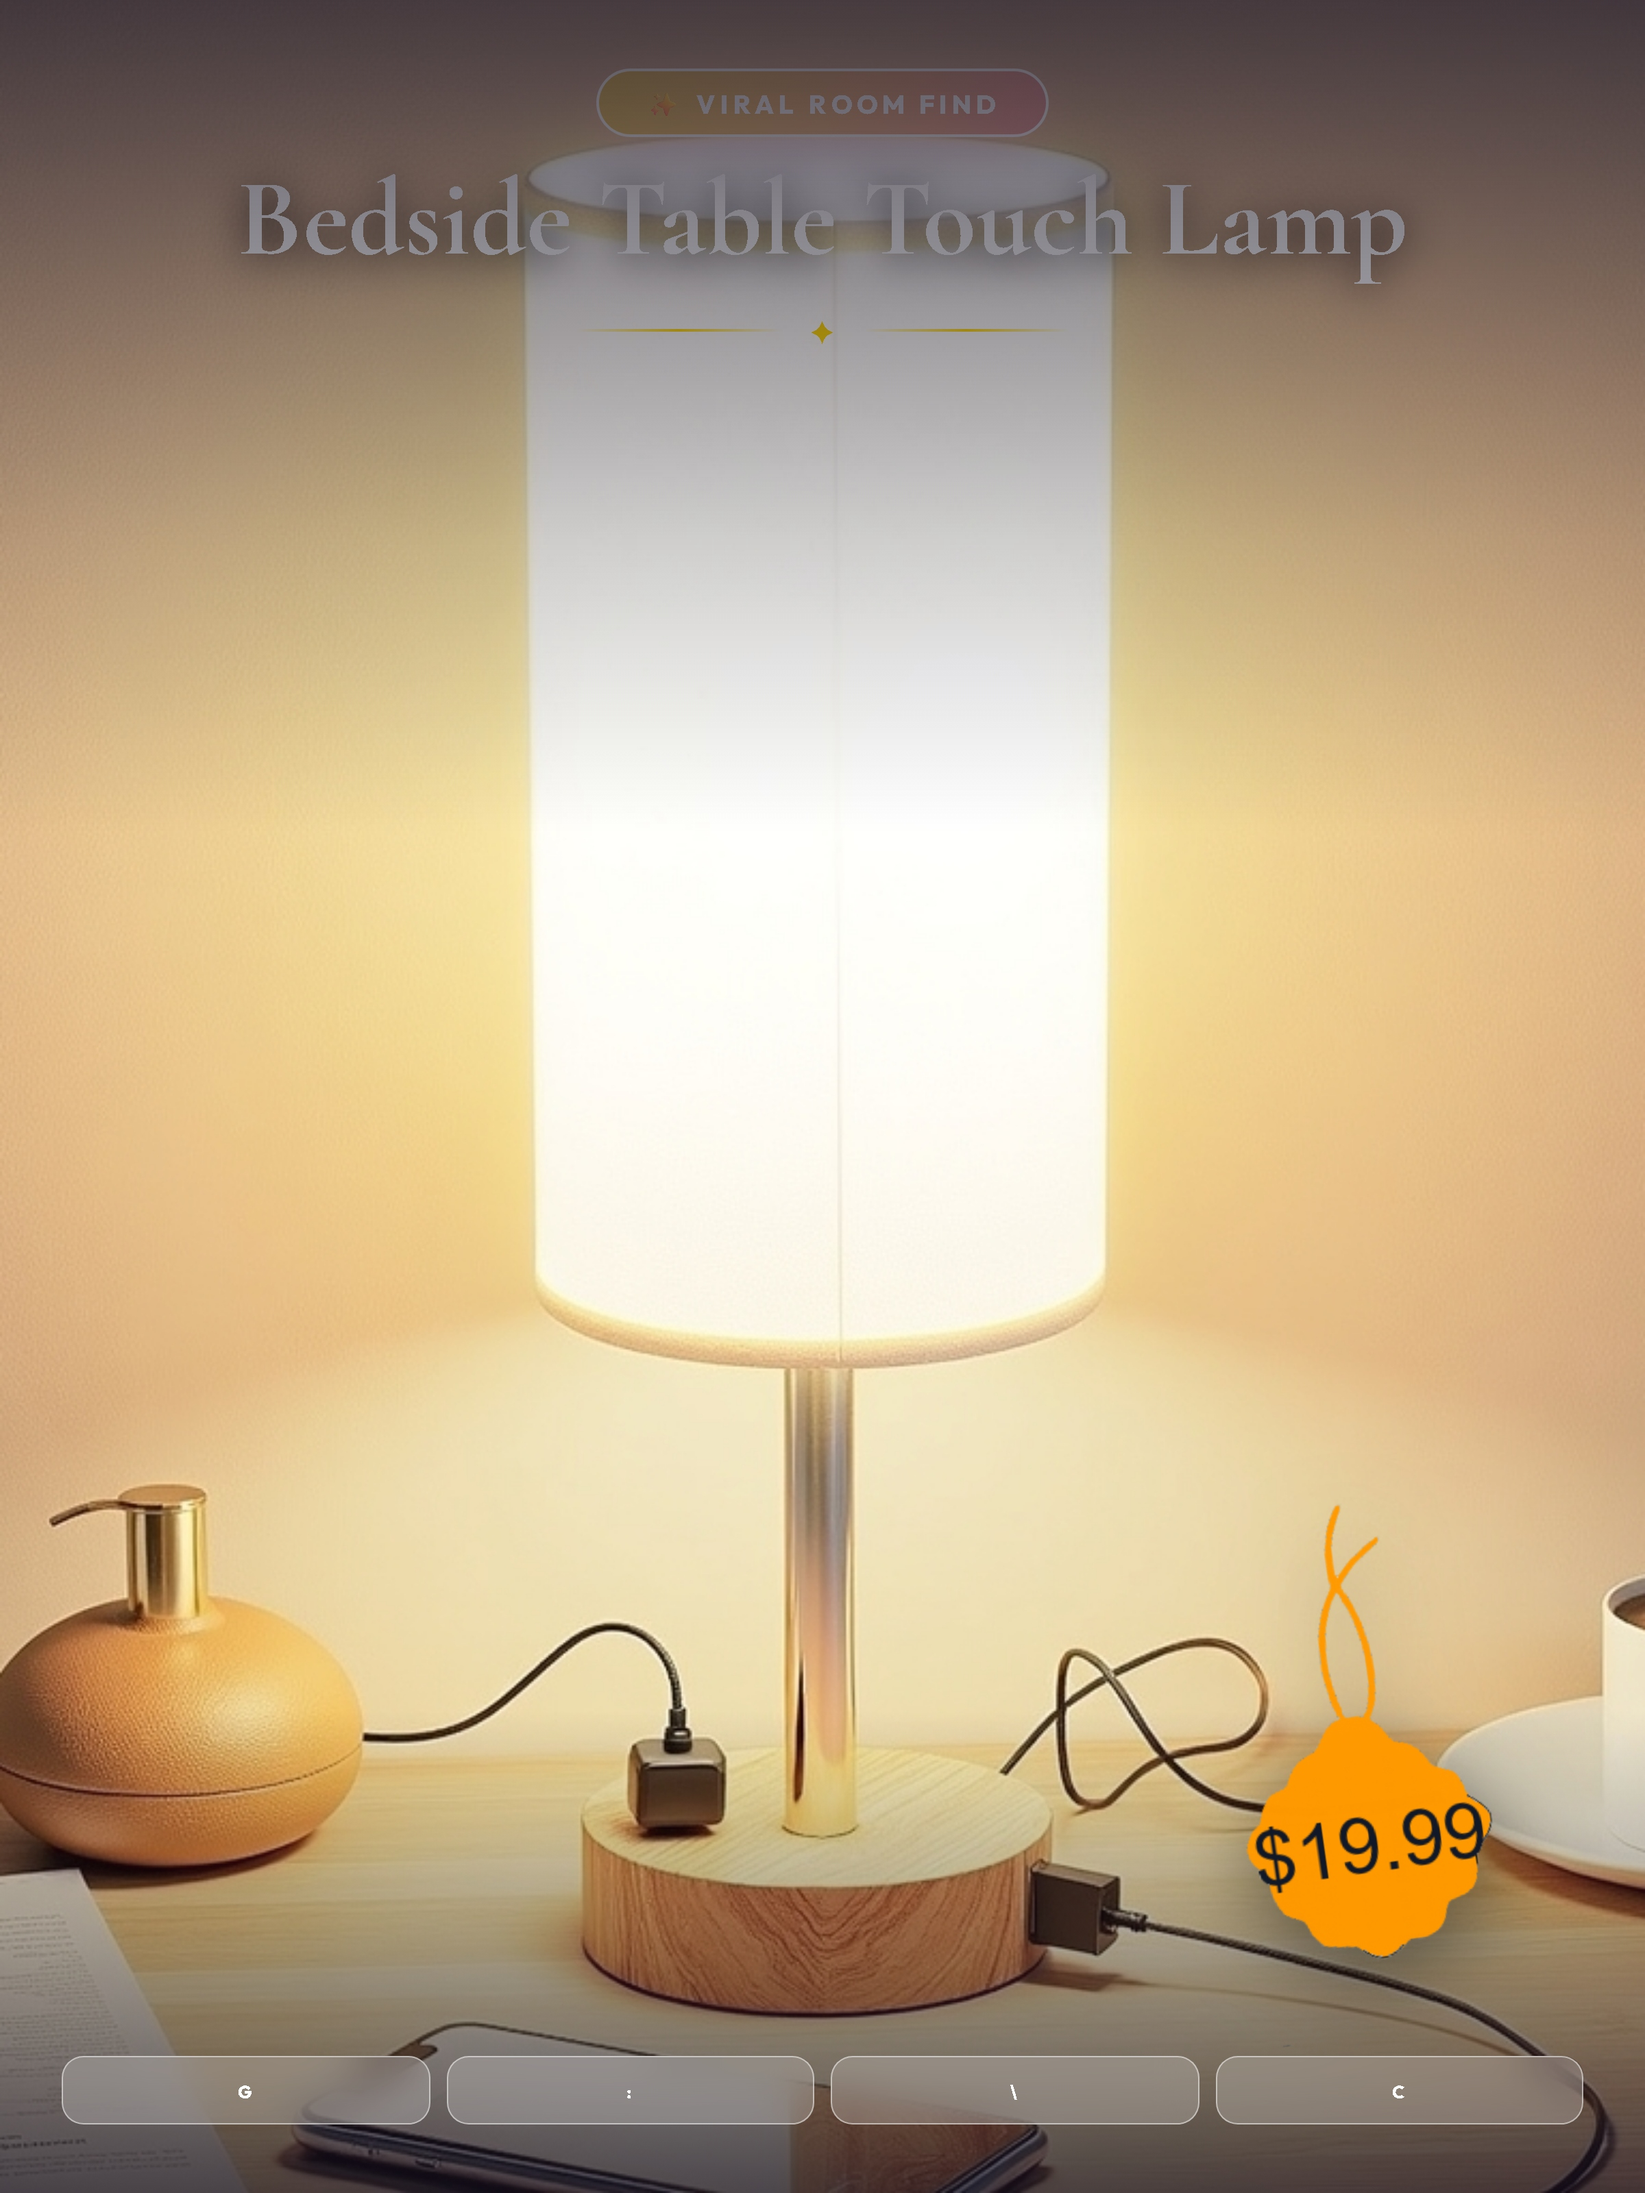
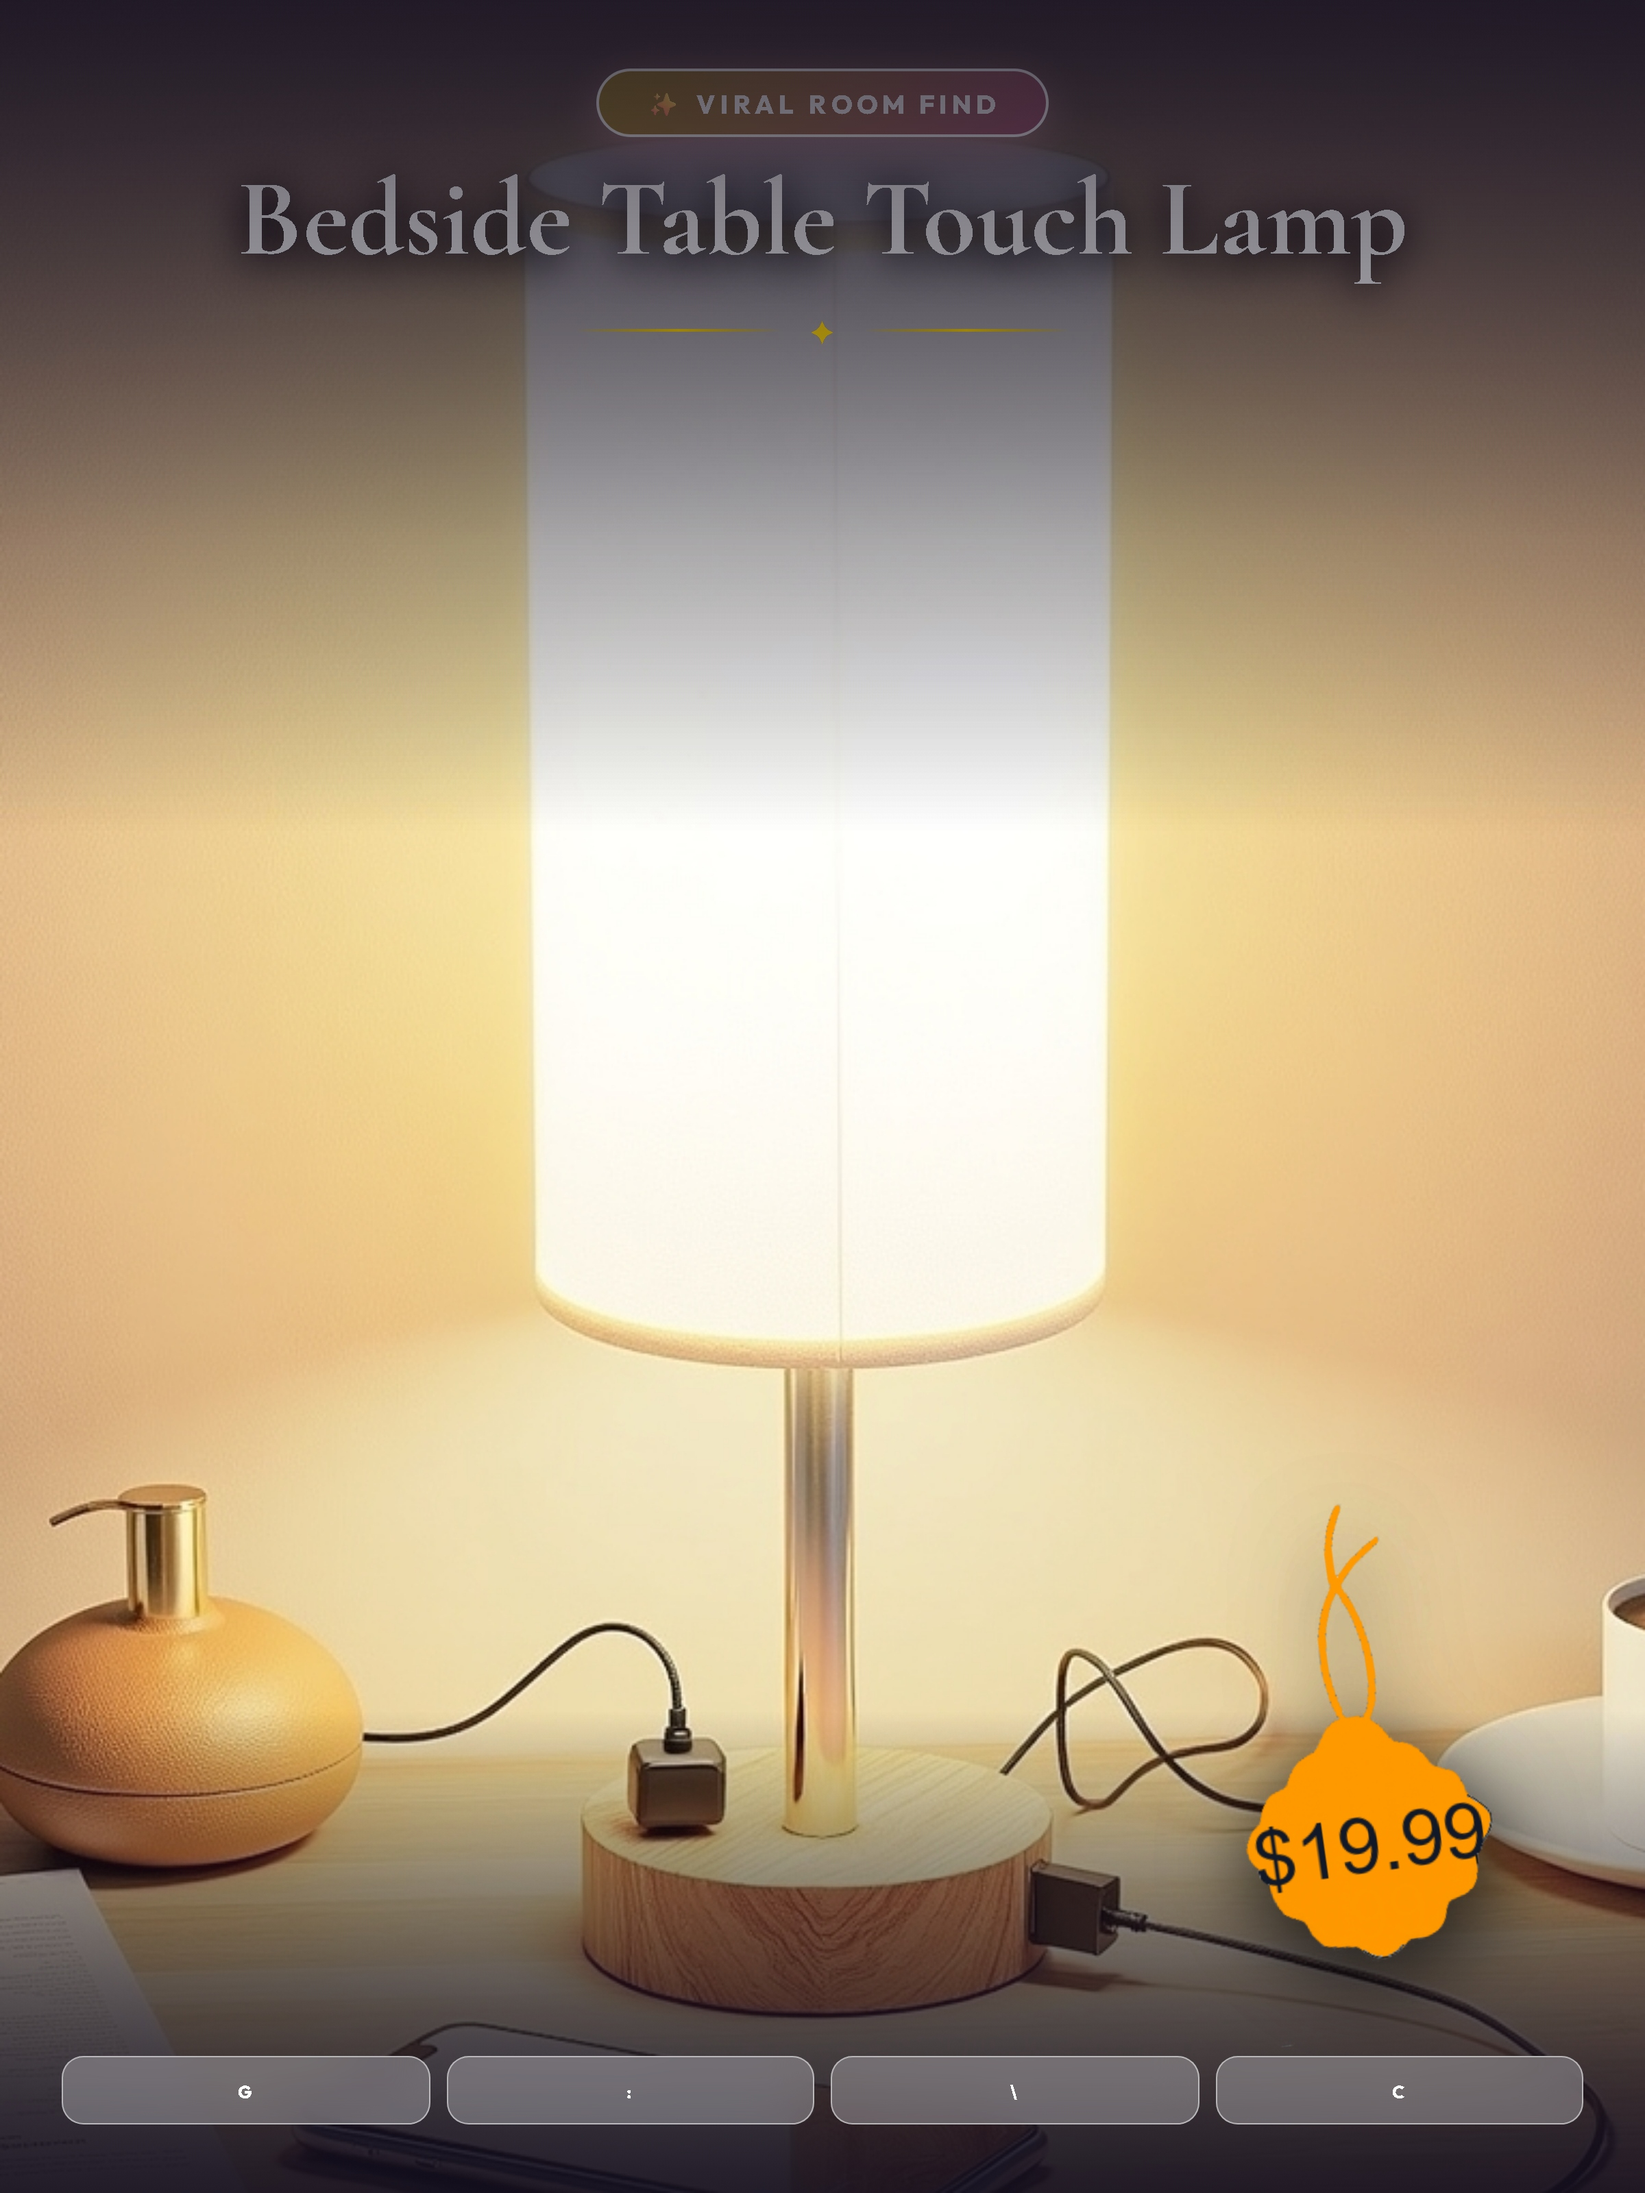
apply premium Playwright overlay template b9e65w6bf9rn80cznt1tap5v28_overlay.jpg for B0BZXNSW5K

diff --git a/bridge_B0BZXNSW5K.html b/bridge_B0BZXNSW5K.html
@@ -317,12 +317,12 @@
 
         <!-- Hero Image -->
         <div class="img-container">
-            <img id="mainImage" class="hero-img" src="./b9e65w6bf9rn80cznt1tap5v28.jpg" alt="Bedside Table Lamp for Bedroom - Dimmable Touch, USB A+C, AC Outlet | 3-Way Dimmable, LED Bulb Included, Fabric Lampshade, Wood-Grain Metal Base, 14" Small Nightstand Lamp for Desk, Living Room">
+            <img id="mainImage" class="hero-img" src="./b9e65w6bf9rn80cznt1tap5v28_overlay.jpg" alt="Bedside Table Lamp for Bedroom - Dimmable Touch, USB A+C, AC Outlet | 3-Way Dimmable, LED Bulb Included, Fabric Lampshade, Wood-Grain Metal Base, 14" Small Nightstand Lamp for Desk, Living Room">
         </div>
 
         <!-- Image View Switcher -->
         <div class="img-tabs">
-            <button class="img-tab-btn active" onclick="switchImage('./b9e65w6bf9rn80cznt1tap5v28.jpg', this)">✨ Commercial View</button>
+            <button class="img-tab-btn active" onclick="switchImage('./b9e65w6bf9rn80cznt1tap5v28_overlay.jpg', this)">✨ Commercial View</button>
             
         </div>
 

diff --git a/index.html b/index.html
@@ -637,7 +637,7 @@
                 <div class="card-img-container">
                     <div class="card-price-tag">$19.99</div>
                     <div class="card-rating">★ 4.7</div>
-                    <img src="./b9e65w6bf9rn80cznt1tap5v28.jpg" alt="Fenmzee Bedside Table Touch Lamp">
+                    <img src="./b9e65w6bf9rn80cznt1tap5v28_overlay.jpg" alt="Fenmzee Bedside Table Touch Lamp">
                 </div>
                 <div class="card-content">
                     <h2>Fenmzee Bedside Table Touch Lamp</h2>

diff --git a/render_perfect_template.py b/render_perfect_template.py
@@ -1,0 +1,53 @@
+import sys
+import time
+import subprocess
+from pathlib import Path
+
+# Ensure UTF-8 stdout
+if hasattr(sys.stdout, "reconfigure"):
+    sys.stdout.reconfigure(encoding="utf-8")
+
+from modules.html_overlay_engine import render_html_overlay
+
+asin = "B0BZXNSW5K"
+raw_img_path = Path("G:/CLI/pinterest-auto-affiliate/b9e65w6bf9rn80cznt1tap5v28.jpg")
+overlay_filename = "b9e65w6bf9rn80cznt1tap5v28_overlay.jpg"
+overlay_img_path = Path(f"G:/CLI/pinterest-auto-affiliate/{overlay_filename}")
+
+title_hook = "Bedside Table Touch Lamp"
+price_str = "$19.99"
+badge_hook = "VIRAL ROOM FIND"
+
+print(f"🎨 Rendering 1200x1600 Premium Floating Visual Overlay onto user photo...")
+render_html_overlay(
+    str(raw_img_path),
+    title_hook,
+    "",
+    badge_hook,
+    price_str,
+    ["DIMMABLE TOUCH", "USB A+C CHARGING", "AC OUTLET", "LED BULB INCLUDED"],
+    str(overlay_img_path)
+)
+print(f"Created overlay image: {overlay_img_path} ({overlay_img_path.stat().st_size / 1024:.1f} KB)")
+
+# Update bridge page HTML with new overlay filename
+bridge_file = Path(f"G:/CLI/pinterest-auto-affiliate/bridge_{asin}.html")
+content = bridge_file.read_text(encoding="utf-8")
+import re
+content = re.sub(r'b9e65w6bf9rn80cznt1tap5v28[^\'"]*\.jpg', overlay_filename, content)
+bridge_file.write_text(content, encoding="utf-8")
+print(f"✅ Updated bridge_{asin}.html to load {overlay_filename}")
+
+# Update index.html HTML with new overlay filename
+index_file = Path("G:/CLI/pinterest-auto-affiliate/index.html")
+content = index_file.read_text(encoding="utf-8")
+content = re.sub(r'b9e65w6bf9rn80cznt1tap5v28[^\'"]*\.jpg', overlay_filename, content)
+index_file.write_text(content, encoding="utf-8")
+print(f"✅ Updated index.html to load {overlay_filename}")
+
+# Commit & Push Live
+subprocess.run(["git", "add", "-A"], check=True)
+subprocess.run(["git", "commit", "-m", f"apply premium Playwright overlay template {overlay_filename} for {asin}"], check=True)
+subprocess.run(["git", "push", "origin", "main"], check=True)
+
+print("🚀 Successfully pushed premium template overlay live to GitHub Pages!")
